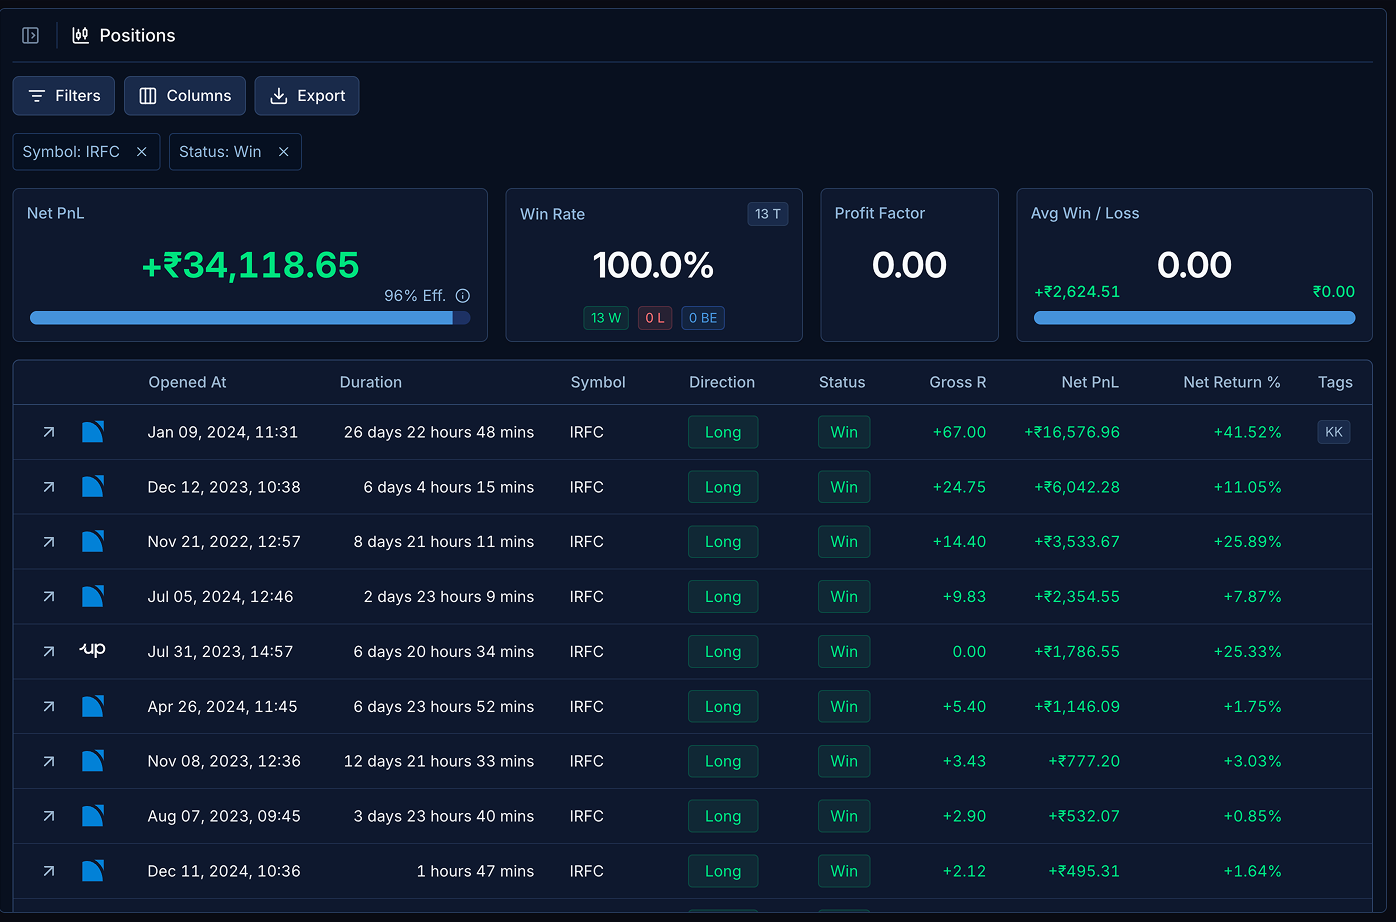
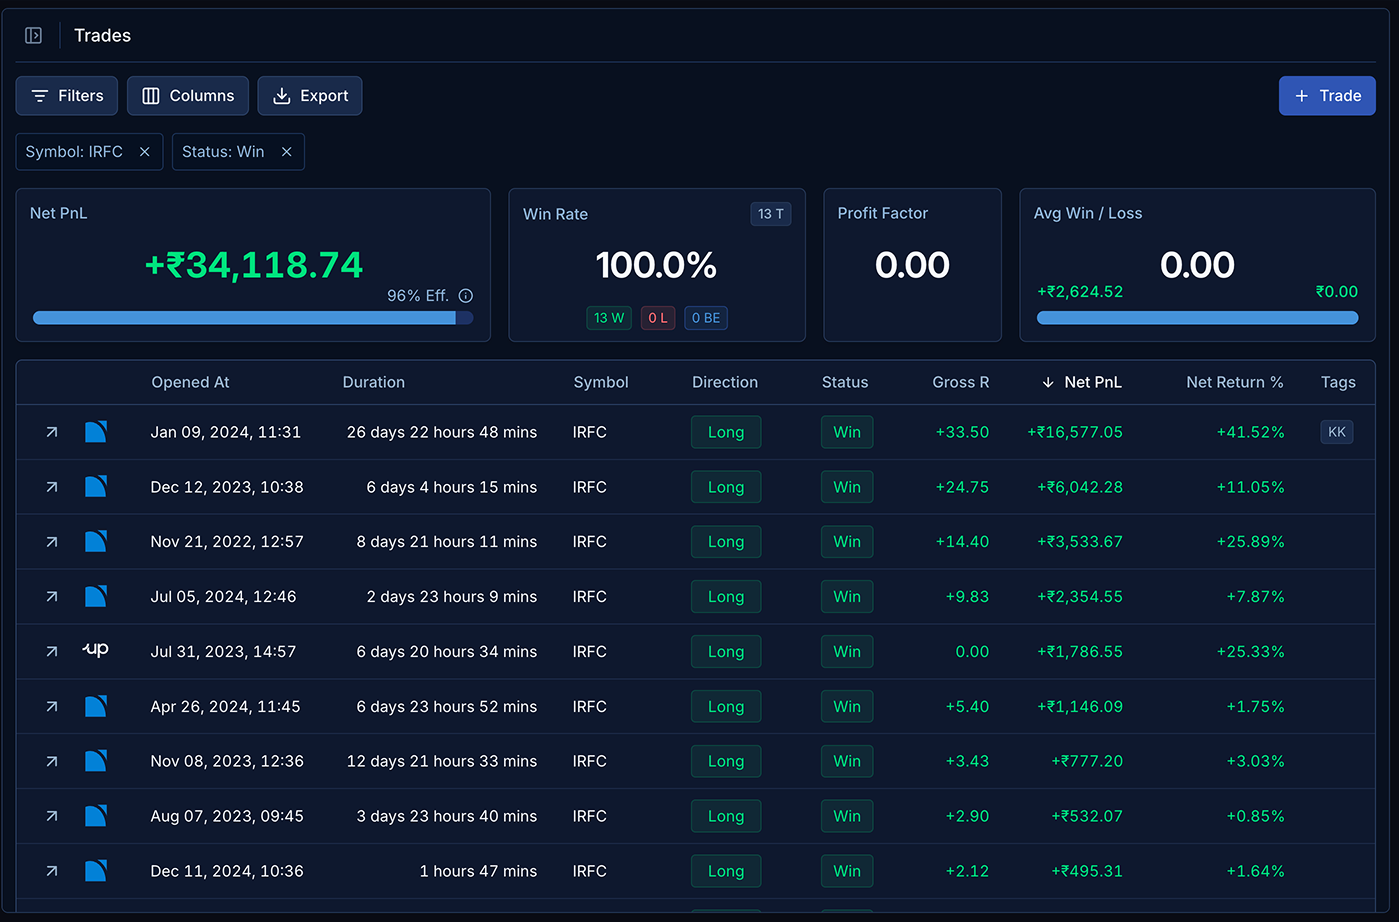
feat(product): wire real screenshots into Discover & Social feature cards

diff --git a/lib/discover_sections.ts b/lib/discover_sections.ts
@@ -16,6 +16,9 @@ export interface DiscoverFeature {
     image: string | null;
     /** Short label shown inside the placeholder when `image` is null. */
     placeholderLabel?: string;
+    /** Use a gentler bottom fade when the screenshot has content near its
+        bottom edge (e.g. a callout note) the default vignette would wash out. */
+    softBottomFade?: boolean;
 }
 
 export const DISCOVER_FEATURES: DiscoverFeature[] = [
@@ -25,7 +28,7 @@ export const DISCOVER_FEATURES: DiscoverFeature[] = [
         heading: "Scan the whole market in seconds.",
         subheading:
             "Filter every NSE/BSE stock by price, volume, technicals, and breakout signals. Inspect each hit with an inline chart and go from noise to a shortlist fast.",
-        image: "/images/v2/product-discover.png",
+        image: "/images/product_discover_screener.png",
     },
     {
         id: "progressive-scan",
@@ -33,8 +36,9 @@ export const DISCOVER_FEATURES: DiscoverFeature[] = [
         heading: "Find the stocks that keep showing up.",
         subheading:
             "Run several screeners into one session and surface the names that repeat across them. Confluence becomes your signal instead of duplicate noise.",
-        image: null,
-        placeholderLabel: "Progressive Scan · repeat signals",
+        image: "/images/product_discover_progressive_scan.png",
+        // Session info box sits at the bottom-right of the screenshot.
+        softBottomFade: true,
     },
     {
         id: "watchlists",
@@ -42,8 +46,9 @@ export const DISCOVER_FEATURES: DiscoverFeature[] = [
         heading: "Watchlists that remember why.",
         subheading:
             "Add a note to every stock you track and see how it moved since: percent change, max gain, max drawdown. Learn whether your reasoning actually worked.",
-        image: null,
-        placeholderLabel: "Watchlist · intelligence columns",
+        image: "/images/product_discover_watchlist.png",
+        // "Added to watchlist" note sits near the bottom of the screenshot.
+        softBottomFade: true,
     },
     {
         id: "symbol-journey",
@@ -51,7 +56,6 @@ export const DISCOVER_FEATURES: DiscoverFeature[] = [
         heading: "Every stock gets a timeline.",
         subheading:
             "Open any stock to see your full history with it. Every watchlist add, note, and trade on one timeline beside the chart, so the whole story stays in one place.",
-        // Same frame as the hero video poster (the /symbols/IRFC command center).
-        image: "/images/v2/video-poster.png",
+        image: "/images/product_discover_symbol_journey.png",
     },
 ];

diff --git a/components/feature_card.tsx b/components/feature_card.tsx
@@ -8,6 +8,10 @@ interface FeatureCardProps {
     image: string | null;
     /** Short label shown inside the placeholder when `image` is null. */
     placeholderLabel?: string;
+    /** Use a gentler bottom fade when the screenshot has meaningful content
+        near its bottom edge (e.g. a callout note) that the default vignette
+        would wash out. */
+    softBottomFade?: boolean;
     priority?: boolean;
 }
 
@@ -16,6 +20,11 @@ interface FeatureCardProps {
 // surface. The card itself has no background.
 const FADE =
     "linear-gradient(to bottom, transparent 0%, #000 3%, #000 62%, transparent 100%), linear-gradient(to right, transparent 0%, #000 3%, #000 97%, transparent 100%)";
+
+// Same as FADE but the bottom stays opaque much lower (88% vs 62%) before
+// dissolving, so content near the bottom edge stays legible.
+const FADE_SOFT_BOTTOM =
+    "linear-gradient(to bottom, transparent 0%, #000 3%, #000 88%, transparent 100%), linear-gradient(to right, transparent 0%, #000 3%, #000 97%, transparent 100%)";
 
 // One feature cell: a tall, background-less cell. The screenshot floats in the
 // upper area (lit from the top, edges fading into the page) and the title +
@@ -26,8 +35,10 @@ export default function FeatureCard({
     subheading,
     image,
     placeholderLabel,
+    softBottomFade = false,
     priority = false,
 }: FeatureCardProps) {
+    const fade = softBottomFade ? FADE_SOFT_BOTTOM : FADE;
     return (
         <div className="group flex flex-col px-4 pb-4 pt-2.5 md:min-h-[calc(100svh-10rem)] md:p-6">
 
@@ -47,8 +58,8 @@ export default function FeatureCard({
                             <div
                                 className="absolute inset-0 overflow-hidden"
                                 style={{
-                                    maskImage: FADE,
-                                    WebkitMaskImage: FADE,
+                                    maskImage: fade,
+                                    WebkitMaskImage: fade,
                                     maskComposite: "intersect",
                                     WebkitMaskComposite: "source-in",
                                 }}

diff --git a/lib/social_sections.ts b/lib/social_sections.ts
@@ -31,8 +31,7 @@ export const SOCIAL_FEATURES: SocialFeature[] = [
         heading: "Show your work, not your P&L.",
         subheading:
             "Publish your screeners and watchlists for anyone to open and clone. Pin your best to a showcase, so your reputation rests on your ideas.",
-        image: null,
-        placeholderLabel: "Showcase · pinned & published screeners/watchlists",
+        image: "/images/product_profile_showcase.png",
     },
     {
         id: "activity",
@@ -40,7 +39,6 @@ export const SOCIAL_FEATURES: SocialFeature[] = [
         heading: "Let your consistency show.",
         subheading:
             "An activity heatmap, a workflow breakdown, and a recent timeline. Your discipline becomes visible to others, and to you.",
-        image: null,
-        placeholderLabel: "Activity · heatmap, workflow & timeline",
+        image: "/images/product_profile_activity.png",
     },
 ];

diff --git a/app/product/discover/page.tsx b/app/product/discover/page.tsx
@@ -59,6 +59,7 @@ export default function DiscoverHubPage() {
                                 subheading={feature.subheading}
                                 image={feature.image}
                                 placeholderLabel={feature.placeholderLabel}
+                                softBottomFade={feature.softBottomFade}
                                 priority={ri === 0}
                             />
                         ))}
